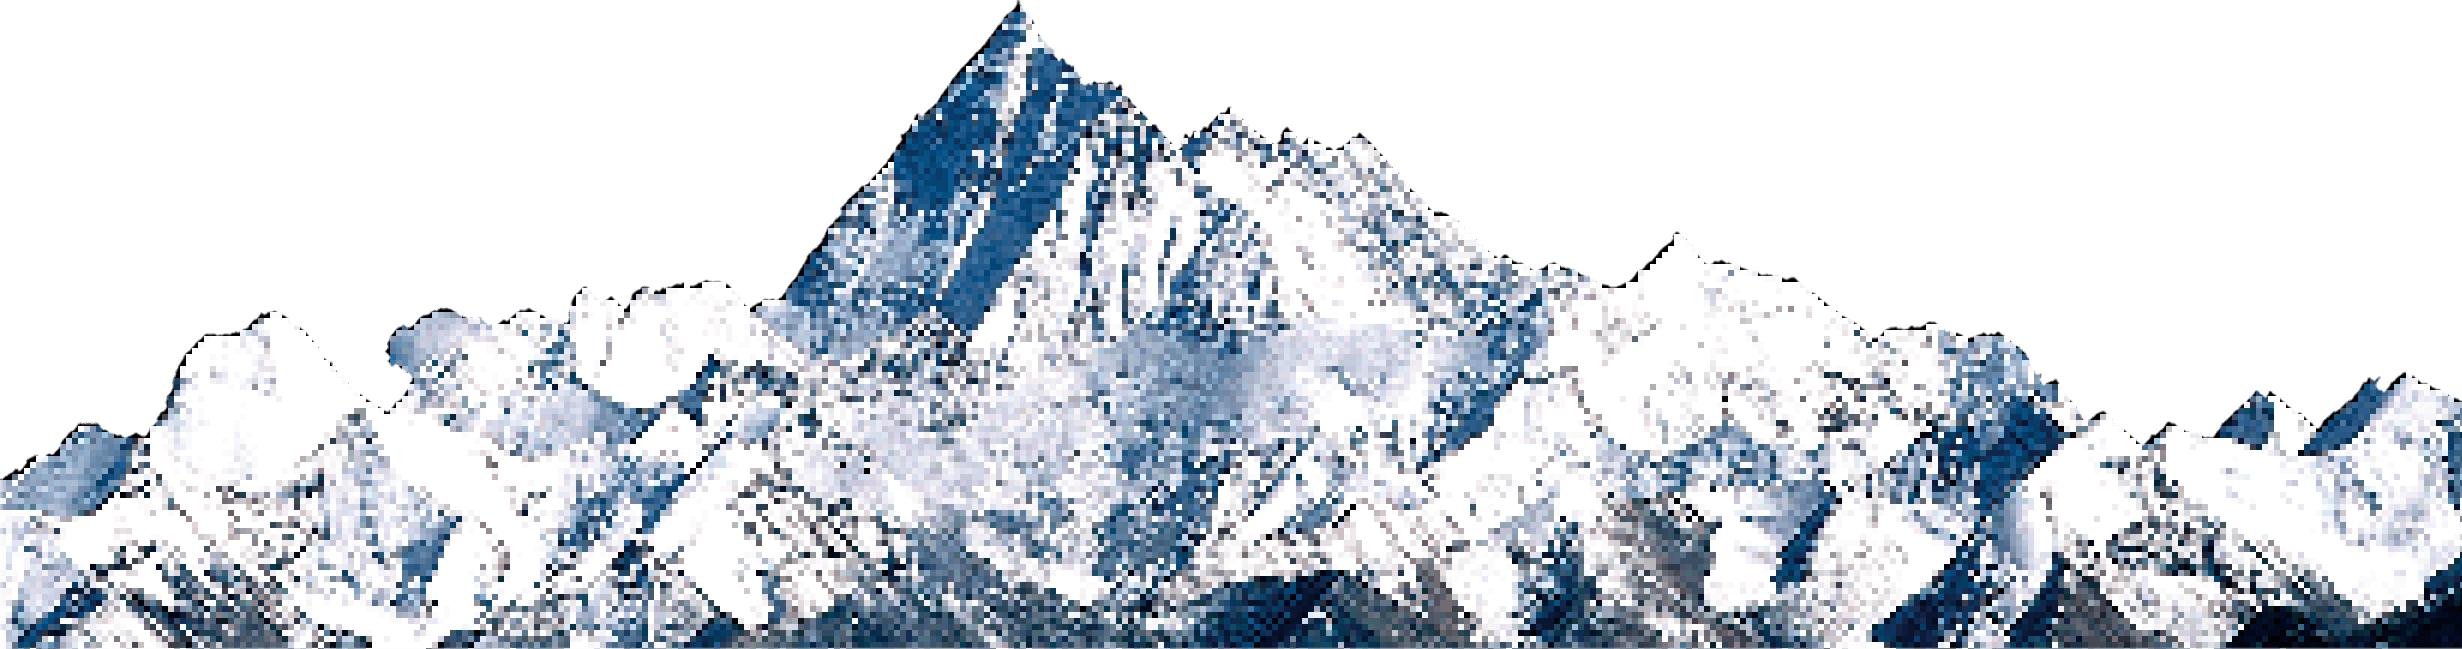
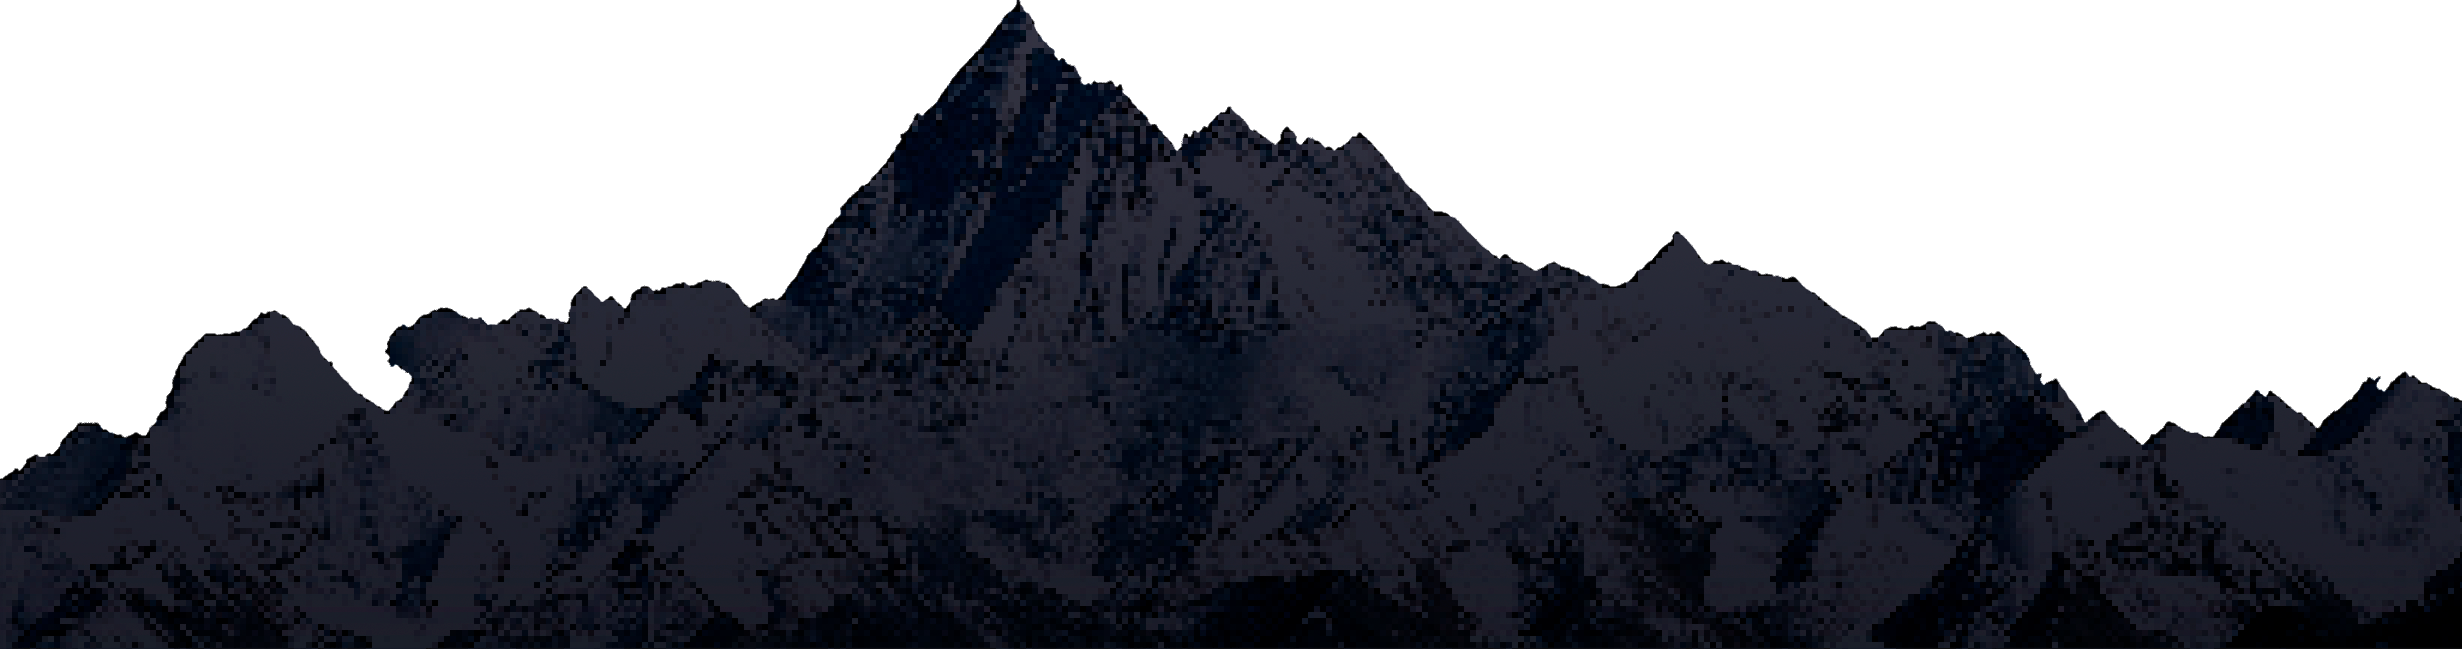
Mudança nas animações da montanha

diff --git a/css/starting-soon.css b/css/starting-soon.css
@@ -319,14 +319,21 @@
 	z-index: 1;
 }
 
+@keyframes mountainsanim {
+	0% {
+		transform: translateX(-50%) scale(.6);
+	}
+	100% {
+		transform: translateX(-50%) scale(1.1);
+	}
+}
+
 .mountains {
     width: 1920px;
     height: 214px;
     position: absolute;
     bottom: -37px;
     left: 50%;
-    transform: translateX(-50%);
-    opacity: .7;
-    filter: hue-rotate(56deg) brightness(0.08);
 	z-index: 2;
+	animation: mountainsanim 300s linear infinite;
 }
